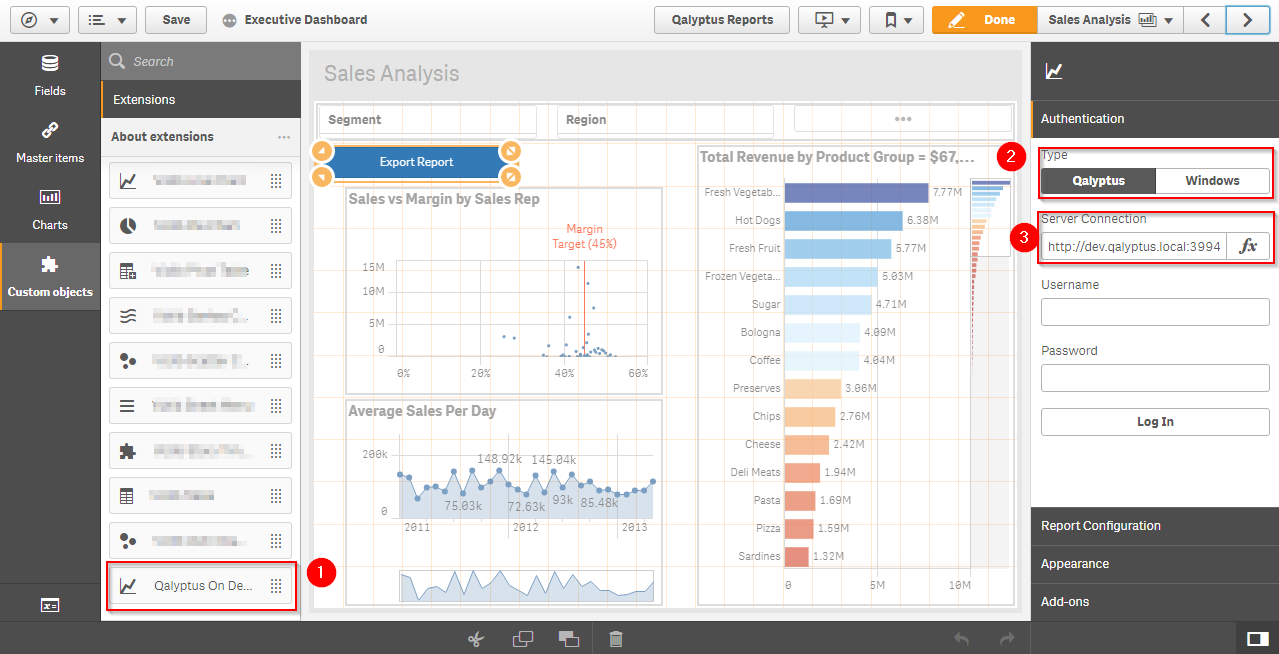
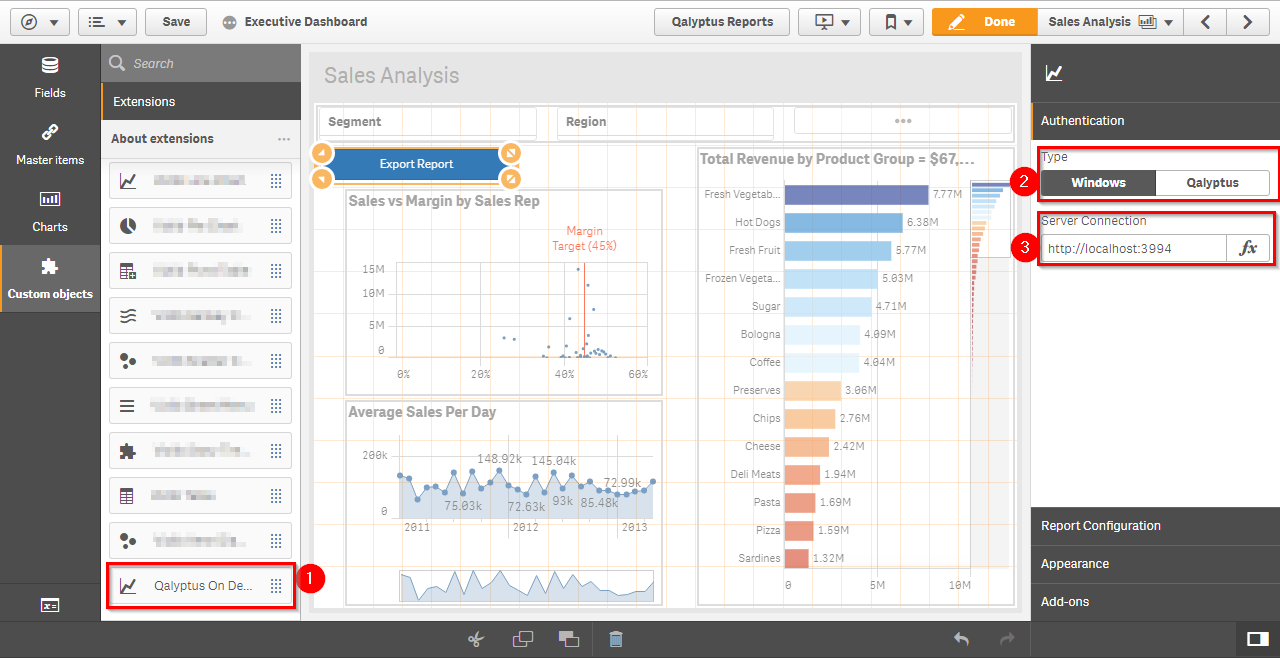
Add the windows authentication. Change download file method

diff --git a/qalyptus-sense-on-demand.js b/qalyptus-sense-on-demand.js
@@ -251,12 +251,13 @@ define([
                             withCredentials: useCredentials
                         },
                         beforeSend: function (xhr) {
-                            //xhr.setRequestHeader("Content-Type", "application/json");
-                            xhr.setRequestHeader("Authorization", "Bearer" + " " + localStorage.getItem("token"));
+                            if (useCredentials == false) {
+                                xhr.setRequestHeader("Content-Type", "application/json");
+                                xhr.setRequestHeader("Authorization", "Bearer " + localStorage.getItem("token"));
+                            }
                         },
                         statusCode: {
                             417: function (xhr) {
-                                console.log(xhr.statusText)
                                 refreshToken(conn, localStorage.getItem("refreshToken"));
                             },
                             401: function (xhr) {
@@ -274,15 +275,16 @@ define([
                 url: requestUrl,
                 method: 'GET',
                 xhrFields: {
-                    withCredentials: conn.withCredentials
+                    withCredentials: conn.auth == 'ntlm'
                 },
                 beforeSend: function (xhr) {
-                    //xhr.setRequestHeader("Content-Type", "application/json");
-                    xhr.setRequestHeader("Authorization", "Bearer" + " " + localStorage.getItem("token"));
+                    if (conn.auth != 'ntlm') {
+                        xhr.setRequestHeader("Content-Type", "application/json");
+                        xhr.setRequestHeader("Authorization", "Bearer " + localStorage.getItem("token"));
+                    }
                 },
                 statusCode: {
                     417: function (xhr) {
-                        console.log(xhr.statusText)
                         refreshToken(conn, localStorage.getItem("refreshToken"));
                     },
                     401: function (xhr) {
@@ -298,15 +300,16 @@ define([
                 url: requestUrl,
                 method: 'GET',
                 xhrFields: {
-                    withCredentials: conn.withCredentials
+                    withCredentials: conn.auth == 'ntlm'
                 },
                 beforeSend: function (xhr) {
-                    //xhr.setRequestHeader("Content-Type", "application/json");
-                    xhr.setRequestHeader("Authorization", "Bearer" + " " + localStorage.getItem("token"));
+                    if (conn.auth != 'ntlm') {
+                        xhr.setRequestHeader("Content-Type", "application/json");
+                        xhr.setRequestHeader("Authorization", "Bearer " + localStorage.getItem("token"));
+                    }
                 },
                 statusCode: {
                     417: function (xhr) {
-                        console.log(xhr.statusText)
                         refreshToken(conn, localStorage.getItem("refreshToken"));
                     },
                     401: function (xhr) {
@@ -318,20 +321,20 @@ define([
 
         function getTasks(conn) {
             var requestUrl = conn.server + '/api/v1/ondemand/requests' + '?projectId=' + conn.app;
-
             return $.ajax({
                 url: requestUrl,
                 method: 'GET',
                 xhrFields: {
-                    withCredentials: conn.withCredentials
+                    withCredentials: conn.auth == 'ntlm'
                 },
                 beforeSend: function (xhr) {
-                    //xhr.setRequestHeader("Content-Type", "application/json");
-                    xhr.setRequestHeader("Authorization", "Bearer" + " " + localStorage.getItem("token"));
+                    if (conn.auth != 'ntlm') {
+                        xhr.setRequestHeader("Content-Type", "application/json");
+                        xhr.setRequestHeader("Authorization", "Bearer " + localStorage.getItem("token"));
+                    }
                 },
                 statusCode: {
                     417: function (xhr) {
-                        console.log(xhr.statusText)
                         refreshToken(conn, localStorage.getItem("refreshToken"));
                     },
                     401: function (xhr) {
@@ -347,15 +350,16 @@ define([
                 url: requestUrl,
                 method: 'GET',
                 xhrFields: {
-                    withCredentials: conn.withCredentials
+                    withCredentials: conn.auth == 'ntlm'
                 },
                 beforeSend: function (xhr) {
-                    //xhr.setRequestHeader("Content-Type", "application/json");
-                    xhr.setRequestHeader("Authorization", "Bearer" + " " + localStorage.getItem("token"));
+                    if (conn.auth != 'ntlm') {
+                        xhr.setRequestHeader("Content-Type", "application/json");
+                        xhr.setRequestHeader("Authorization", "Bearer " + localStorage.getItem("token"));
+                    }
                 },
                 statusCode: {
                     417: function (xhr) {
-                        console.log(xhr.statusText)
                         refreshToken(conn, localStorage.getItem("refreshToken"));
                     },
                     401: function (xhr) {
@@ -375,15 +379,16 @@ define([
                 },
                 method: 'DELETE',
                 xhrFields: {
-                    withCredentials: conn.withCredentials
+                    withCredentials: conn.auth == 'ntlm'
                 },
                 beforeSend: function (xhr) {
-                    //xhr.setRequestHeader("Content-Type", "application/json");
-                    xhr.setRequestHeader("Authorization", "Bearer" + " " + localStorage.getItem("token"));
+                    if (conn.auth != 'ntlm') {
+                        xhr.setRequestHeader("Content-Type", "application/json");
+                        xhr.setRequestHeader("Authorization", "Bearer " + localStorage.getItem("token"));
+                    }
                 },
                 statusCode: {
                     417: function (xhr) {
-                        console.log(xhr.statusText)
                         refreshToken(conn, localStorage.getItem("refreshToken"));
                     },
                     401: function (xhr) {
@@ -393,10 +398,38 @@ define([
             });
         }
 
-        function downloadTask(conn, taskId) {
+        function downloadTask(conn, taskId, title) {
             var requestUrl = conn.server + '/api/v1/ondemand/requests/' + taskId + '/result';
-            document.getElementById('download').src = requestUrl;
+
+            var xhr = new XMLHttpRequest();
+            xhr.open("GET", requestUrl, true);
+            xhr.responseType = "blob";
+            if (conn.auth == 'ntlm') {
+                xhr.withCredentials = true;
+            }
+            else {
+                xhr.setRequestHeader("Authorization", "Bearer " + localStorage.getItem("token"));
+            }
+            xhr.onload = function (oEvent) {
+                var blob = xhr.response;
+                saveBolb(blob, title);
+            };
+
+            xhr.send();
         }
+
+        var saveBolb = (function () {
+            var a = document.createElement("a");
+            document.body.appendChild(a);
+            a.style = "display: none";
+            return function (blob, fileName) {
+                url = window.URL.createObjectURL(blob);
+                a.href = url;
+                a.download = fileName;
+                a.click();
+                window.URL.revokeObjectURL(url);
+            };
+        }());
 
         function getImg(type) {
             switch (type) {
@@ -512,7 +545,7 @@ define([
                         conn: conn,
                         report: conn.report,
                         format: conn.exportFormat,
-                        withCredentials: conn.auth === 'ntlm'
+                        withCredentials: conn.auth == 'ntlm'
                     };
 
                     var url = window.location.href;
@@ -538,20 +571,12 @@ define([
                             }
                         });
 
-                        var pullTaskHandler =
+                        var pullTaskHandler = $interval(function () {
                             getTasks(conn).then(function (response) {
                                 $scope.taskList = response.data;
                                 $scope.$apply();
                             });
-
-                        if ($scope.taskList) {
-                            pullTaskHandler = $interval(function () {
-                                getTasks(conn).then(function (response) {
-                                    $scope.taskList = response.data;
-                                    $scope.$apply();
-                                });
-                            }, 1000);
-                        }
+                        }, 1000);
 
                         $scope.go2OverviewStage(conn);
 
@@ -588,7 +613,7 @@ define([
                         conn: conn,
                         report: $scope.currReport.id,
                         format: format,
-                        withCredentials: conn.auth === 'ntlm'
+                        withCredentials: conn.auth == 'ntlm'
                     };
 
                     doExport(options).then(function () {
@@ -602,8 +627,8 @@ define([
                     });
                 };
 
-                $scope.downloadTask = function (taskId) {
-                    downloadTask(conn, taskId);
+                $scope.downloadTask = function (taskId, title) {
+                    downloadTask(conn, taskId, title);
                 };
 
                 //Selection Listener

diff --git a/js/properties.js b/js/properties.js
@@ -9,17 +9,17 @@ var Authentication = {
 			label: "Type",
 			ref: "npsod.conn.auth",
 			options: [{
+				value: "ntlm",
+				label: "Windows",
+				tooltip: "Authenticate with your Windows credentials"
+			},
+			{
 				value: "jwt",
 				label: "Qalyptus",
 				tooltip: "Authenticate with Qalyptus credentials"
 			}
-				, {
-				value: "ntlm",
-				label: "Windows",
-				tooltip: "Authenticate with your Windows credentials"
-			}
 			],
-			defaultValue: "jwt"
+			defaultValue: "ntlm"
 		},
 		server: {
 			ref: "npsod.conn.server",
@@ -51,10 +51,7 @@ var Authentication = {
 					url: data.npsod.conn.server + '/api/v1/login',
 					method: 'POST',
 					contentType: 'application/json',
-					data: JSON.stringify({ username: data.npsod.conn.username, password: data.npsod.conn.password }),
-					xhrFields: {
-						withCredentials: data.npsod.conn.auth === 'ntlm'
-					}
+					data: JSON.stringify({ username: data.npsod.conn.username, password: data.npsod.conn.password })
 				}).then(function (res) {
 					localStorage.setItem("token", res.data.token);
 					localStorage.setItem("refreshToken", res.data.refreshToken);
@@ -82,14 +79,13 @@ var ReportSection = {
 					url: data.npsod.conn.server + '/api/v1/projects',
 					method: 'GET',
 					xhrFields: {
-						withCredentials: data.npsod.conn.auth === 'ntlm'
+						withCredentials: data.npsod.conn.auth == 'ntlm'
 					},
 					beforeSend: function (xhr) {
 						xhr.setRequestHeader("Content-Type", "application/json");
-						xhr.setRequestHeader("Authorization", "Bearer " + localStorage.getItem("token"));
-					},
-					beforeSend: function (xhr) {
-						xhr.setRequestHeader("Authorization", "Bearer" + " " + localStorage.getItem("token"));
+						if (data.npsod.conn.auth == 'jwt') {
+							xhr.setRequestHeader("Authorization", "Bearer " + localStorage.getItem("token"));
+						}
 					},
 					statusCode: {
 						401: function (xhr) {
@@ -117,10 +113,13 @@ var ReportSection = {
 					url: requestUrl,
 					method: 'GET',
 					xhrFields: {
-						withCredentials: data.npsod.conn.auth === 'ntlm'
+						withCredentials: data.npsod.conn.auth == 'ntlm'
 					},
 					beforeSend: function (xhr) {
-						xhr.setRequestHeader("Authorization", "Bearer" + " " + localStorage.getItem("token"));
+						xhr.setRequestHeader("Content-Type", "application/json");
+						if (data.npsod.conn.auth == 'jwt') {
+							xhr.setRequestHeader("Authorization", "Bearer " + localStorage.getItem("token"));
+						}
 					},
 					statusCode: {
 						401: function (xhr) {
@@ -144,15 +143,17 @@ var ReportSection = {
 			ref: "npsod.conn.exportFormat",
 			options: function (data) {
 				var requestUrl = data.npsod.conn.server + '/api/v1/reports' + '/' + data.npsod.conn.report;
-
 				return $.ajax({
 					url: requestUrl,
 					method: 'GET',
 					xhrFields: {
-						withCredentials: false
+						withCredentials: data.npsod.conn.auth == 'ntlm'
 					},
 					beforeSend: function (xhr) {
-						xhr.setRequestHeader("Authorization", "Bearer" + " " + localStorage.getItem("token"));
+						xhr.setRequestHeader("Content-Type", "application/json");
+						if (data.npsod.conn.auth == 'jwt') {
+							xhr.setRequestHeader("Authorization", "Bearer " + localStorage.getItem("token"));
+						}
 					},
 					statusCode: {
 						401: function (xhr) {

diff --git a/template/view-popup.html b/template/view-popup.html
@@ -10,7 +10,7 @@
 					<h4 class="list-group-item-heading bold">{{task.title}} <small>{{task.createdDate | date:'medium'}}</small></h4>
 					
 					<span class="glyphicon glyphicon-remove-circle npsod-list-menu-icon pointer" ng-click="deleteTask(task.id)"></span>
-					<span ng-if="task.status=='completed'" class="npsod-list-menu-icon glyphicon glyphicon-save pointer" ng-click="downloadTask(task.id)"></span>
+					<span ng-if="task.status=='completed'" class="npsod-list-menu-icon glyphicon glyphicon-save pointer" ng-click="downloadTask(task.id, task.title)"></span>
 					<img class="npsod-list-loading-icon" ng-src="{{getImg('LOADING')}}" ng-if="task.status=='running'||task.status=='queued'">
 				</li>
 			</ul>

diff --git a/README.md b/README.md
@@ -12,11 +12,15 @@ Qalyptus On-demand extension for Qlik Sense
 
 1.Drag in extension onto your sheet.
 
-2.Choose authentication type. You can use Qalyptus credentials or Windows credentials.
+2.Choose authentication type. You can use Windows credentials or Qalyptus credentials.
 
 3.Configure Qalyptus Server host name, such as http://qalyptus.test.local:3994
 
-![alt tag](https://github.com/qalyptus/qalyptus-sense-on-demand/blob/master/tutorial/1-1.png)
+### Windows credentials
+![alt tag](https://github.com/qalyptus/qalyptus-sense-on-demand/master/tutorial/1-1.png)
+
+###  Qalyptus credentials
+![alt tag](https://github.com/qalyptus/qalyptus-sense-on-demand/master/tutorial/1-1-2.png)
 
 4.Pick your report in "Report Configuration" Section and choose a project from the following dropbox
 
@@ -24,41 +28,41 @@ Qalyptus On-demand extension for Qlik Sense
 
 6.And choose your expected export format
 
-![alt tag](https://github.com/qalyptus/qalyptus-sense-on-demand/blob/master/tutorial/1-2.png)
+![alt tag](https://github.com/qalyptus/qalyptus-sense-on-demand/master/tutorial/1-2.png)
 
 7.Go to Analysis Mode and Press the button to start report generation
 
-![alt tag](https://github.com/qalyptus/qalyptus-sense-on-demand/blob/master/tutorial/1-3.png)
+![alt tag](https://github.com/qalyptus/qalyptus-sense-on-demand/master/tutorial/1-3.png)
 
 8.Popup window will show up and auto pulling the status of the generation.
 
-![alt tag](https://github.com/qalyptus/qalyptus-sense-on-demand/blob/master/tutorial/1-4.png)
+![alt tag](https://github.com/qalyptus/qalyptus-sense-on-demand/master/tutorial/1-4.png)
 
 9.When reported is generated on Qalyptus server, the download button will appear. Click the button to download your report.
 
-![alt tag](https://github.com/qalyptus/qalyptus-sense-on-demand/blob/master/tutorial/1-5.png)
+![alt tag](https://github.com/qalyptus/qalyptus-sense-on-demand/master/tutorial/1-5.png)
 
 ## Self-Service Report
 
 1.A "Qalyptus Reports" button is appended in the top when this extension is used. 
 
-![alt tag](https://github.com/qalyptus/qalyptus-sense-on-demand/blob/master/tutorial/2-1.png)
+![alt tag](https://github.com/qalyptus/qalyptus-sense-on-demand/master/tutorial/2-1.png)
 
 2.A "New Report" button is displayed at the bottom. That's for self-service report generation.
 
-![alt tag](https://github.com/qalyptus/qalyptus-sense-on-demand/blob/master/tutorial/2-2.png)
+![alt tag](https://github.com/qalyptus/qalyptus-sense-on-demand/master/tutorial/2-2.png)
 
 3.Press the button and all 'On-Demand' reports (that current user is allowed to see) will be listed.
 
-![alt tag](https://github.com/qalyptus/qalyptus-sense-on-demand/blob/master/tutorial/2-3.png)
+![alt tag](https://github.com/qalyptus/qalyptus-sense-on-demand/master/tutorial/2-3.png)
 
 4.Then choose your desired report format
 
-![alt tag](https://github.com/qalyptus/qalyptus-sense-on-demand/blob/master/tutorial/2-4.png)
+![alt tag](https://github.com/qalyptus/qalyptus-sense-on-demand/master/tutorial/2-4.png)
 
 5.Then it will come back to the Export overview and wait for the report to be accomplished.
 
-![alt tag](https://github.com/qalyptus/qalyptus-sense-on-demand/blob/master/tutorial/2-5.png)
+![alt tag](https://github.com/qalyptus/qalyptus-sense-on-demand/master/tutorial/2-5.png)
 
 ## Limitations
 1.(Due to techical reasons) The self-service button will not show up until you get into a sheet contains this extension. And it will always stay there until you refresh your page. And it's not working when you navigate to other sheets that don't contain this extension. This will be fixed in following release
